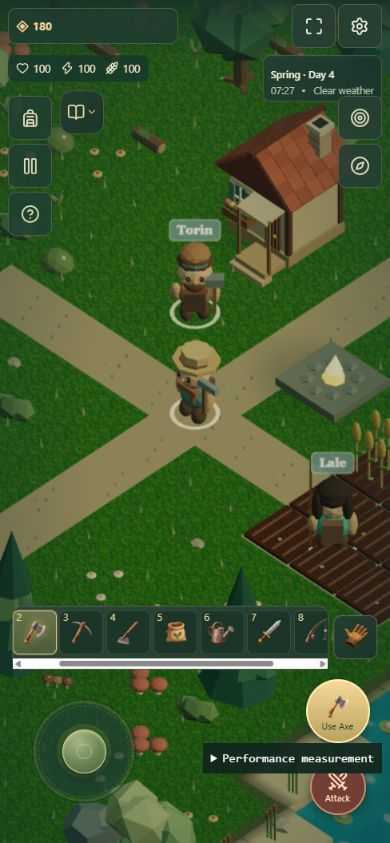
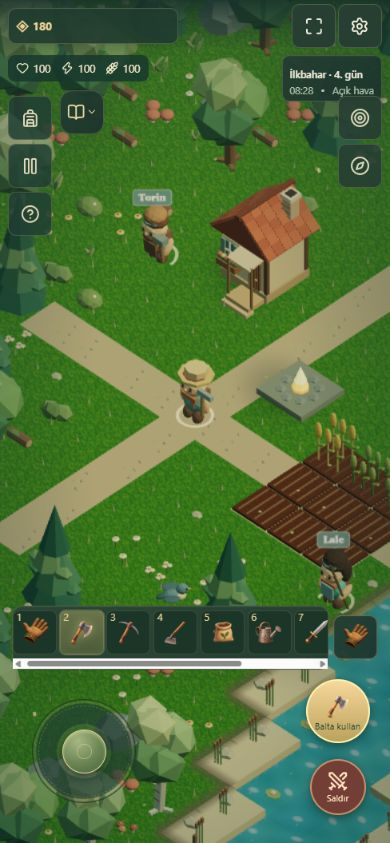
Document alpha.2 live status and verified local alpha.3 HUD and guide candidate

diff --git a/README.md b/README.md
@@ -8,18 +8,21 @@ design sources to copy.
 
 [Türkçe](README.tr.md) · [Changelog](CHANGELOG.md) · [2.0 master plan](docs/ROAMCROFT_2_0_MASTER_PLAN.md)
 
-**Source: 1.14.0-alpha.2 — Living Forest.**
-This builds on mobile recovery and the nine-slot hotbar. The forest slice adds three tree silhouettes, six
-woodland ground models, rabbits and birds to the real Three.js scene.
-See [forest verification](docs/verification-living-forest.md) for captures,
-render measurements and remaining physical-device acceptance. Deployment is
-verified separately in the [release record](docs/verification-release-1.14.0-alpha.2.md).
-This combines the mobile close fix, brand/guide, camp and storage UI, audited
-dependency patches and customizable item references. Full equipment, stack
-management and drag-and-drop remain planned. Physical Android acceptance is
-pending; deployment evidence is recorded in the [release verification](docs/verification-release-1.14.0-alpha.1.md).
-[Live game](https://roamcroft.com) is deployed separately;
-the source branch and its screenshots do not prove that the live build has updated.
+**Live: 1.14.0-alpha.2 — Living Forest**, main `914bde9`.
+GitHub CI and Cloudflare Workers Builds succeeded; both the official and previous
+origins were verified. [Release evidence](docs/verification-release-1.14.0-alpha.2.md).
+The real Three.js scene includes three tree silhouettes, six woodland ground
+models, rabbits and birds. [Forest verification](docs/verification-living-forest.md).
+The user passed the alpha.1 Android menu/input/hotbar/storage checks; physical
+forest performance remains pending. Full equipment, stacks and drag-and-drop
+remain planned.
+
+**Local development candidate: 1.14.0-alpha.3**, branch `codex/mobile-hud-recovery`.
+Compact notices, icon HUD controls, mobile hotbar/bag ergonomics and native
+field-guide scrolling are implemented locally. This candidate has **not** been
+published; physical acceptance and separate release approval are required.
+[HUD verification](docs/verification-mobile-hud-alpha.3.md) ·
+[Guide verification](docs/verification-guide-scroll-alpha.3.md).
 
 The release includes the official domain, brand icons and a bilingual
 [field guide](https://roamcroft.com/how-to-play).
@@ -28,8 +31,9 @@ created them. The [previous address](https://roamcroft.roamcroft.workers.dev)
 remains available. Export a device save before importing it on the new address;
 server ownership is not transferred by a local JSON file.
 
-The development candidate includes a new camp welcome screen and a focused
-bag/storage layout. These local captures show the candidate, not the live build:
+Camp welcome and the bag/storage distinction are included in the current live
+release. The following are historical local Camp Art captures; they do not show
+the newer alpha.3 HUD or prove physical-device acceptance:
 
 ![Camp Art candidate welcome screen, local desktop browser](docs/screenshots/camp-2-launch-desktop.jpg)
 
@@ -167,14 +171,13 @@ does not restore a lost browser cookie or player save.
 [1.13.0 verification](docs/verification-gameplay-1.13.0.md) · [UI baseline](docs/verification-ui-1.12.0.md) · [i18n baseline](docs/verification-portal-i18n.md)
 · [Portal roadmap](docs/PORTAL_ROADMAP.md) · [Contributor rules](AGENTS.md)
 
-The historical audit had **23 open package findings**. The 29 October install
-and audit reported **25** (3 critical, 10 high, 11 moderate, 1 low). The fresh
-Mobile Recovery audit still reports **25**, now **3 critical, 11 high, 10 moderate,
-1 low**, tracked in [the updated audit](docs/security-mobile-recovery-audit.md),
-the master plan and portal roadmap. Toolchain
-exposure and live Worker exposure require different analysis. This UI package
-preserves the existing Sentry dependency and does not upgrade dependencies or
-claim to resolve those findings. Browser error monitoring keeps only error type,
+The historical audit had **23 findings**, later **25**. The 30 October controlled security
+patch reduced the recorded audit to **20 package findings: 0 critical, 8 high,
+11 moderate, 1 low**. That patch shipped in alpha.1 and is retained in alpha.2.
+[Scoped risk analysis](docs/security-audit-2026-10-30.md). Remaining package
+findings are not a proof of live exploitability or of zero risk. The alpha.3
+HUD/guide work introduces no dependency upgrade and preserves Sentry/CSP.
+Browser error monitoring keeps only error type,
 release and code locations; free-form messages, player data, requests, breadcrumbs
 and attachments are removed before sending. Replay and tracing are disabled.
 

diff --git a/README.tr.md b/README.tr.md
@@ -6,9 +6,9 @@ bulunur. Eski cihaz kaydı ve sunucu kimliği eski adreste
 kalır; [önceki adres](https://roamcroft.roamcroft.workers.dev) açık tutulur.
 JSON dışa/içe aktarma cihaz çiftliğini taşır; sunucu sahipliğini taşımaz.
 
-Geliştirme adayında tek logolu karşılama ve görünür çanta/depo ayrımı var.
-Aşağıdaki görüntü yerel tarayıcıdan alındı; canlı sürüm veya fiziksel telefon
-kanıtı değildir.
+Tek logolu karşılama ve çanta/depo ayrımı canlı sürüme dahildir.
+Aşağıdaki tarihsel Camp Art görüntüsü yerel tarayıcıdan alındı; yeni alpha.3
+HUD'ını veya fiziksel telefon kabulünü göstermez.
 
 ![Camp Art adayı — yerel masaüstü](docs/screenshots/camp-2-launch-desktop.jpg)
 
@@ -17,25 +17,28 @@ ekin yetiştir, kaynak topla, üret, keşfet ve arkadaşlarınla çiftlik kur.
 
 [English](README.md) · [Değişiklikler](CHANGELOG.md) · [2.0 master planı](docs/ROAMCROFT_2_0_MASTER_PLAN.md)
 
-**Kaynak: 1.14.0-alpha.2 — Living Forest.**
-Mobil kurtarma ve gerçek hotbar üzerine ilerler. Yayın durumu
-[sürüm kaydında](docs/verification-release-1.14.0-alpha.2.md) ayrıca doğrulanır.
-Yeni orman dilimi gerçek Three.js sahnesine üç ağaç silueti, altı yer örtüsü,
-tavşan ve kuş ekler. Görseller, ölçümler ve eksikler
-[orman doğrulamasında](docs/verification-living-forest.md) tutulur.
-Mobil kapatma, marka/rehber, kamp/çanta/depo ve güvenlik yamaları birleştirildi.
-Tam ekipman/stack/sürükle-bırak henüz yoktur. Fiziksel Android kabulü eksiktir;
-yayın kanıtı [sürüm doğrulamasında](docs/verification-release-1.14.0-alpha.1.md) tutulur.
-[Canlı oyun](https://roamcroft.com) ayrı yayımlanır.
-Ana README'deki görseller üzerinde belirtilen sürümden yerel tarayıcıda alınır;
-eski 1.3 ekranları güncel sürüm olarak sunulmaz.
+**Canlı:1.14.0-alpha.2 — Living Forest**, main `914bde9`.
+GitHub CI ve Workers Builds başarılı; iki origin doğrulandı.
+[Yayın kaydı](docs/verification-release-1.14.0-alpha.2.md).
+Gerçek Three.js sahnesinde üç ağaç silueti, altı yer örtüsü, tavşan ve kuş var.
+[Orman kanıtı](docs/verification-living-forest.md). Kullanıcı alpha.1 Android
+menü/girdi/hotbar/depo kabulünü geçti; ormanın fiziksel performansı hâlâ bekliyor.
+Tam ekipman/stack/sürükle-bırak henüz yoktur.
+
+**Yerel aday:1.14.0-alpha.3**, `codex/mobile-hud-recovery`.
+Kompakt bildirim/HUD/hotbar/çanta ve rehber kaydırma düzeltmeleri yereldir;
+yayımlanmadı. Fiziksel kabul ve ayrıca yayın onayı gerekir.
+[HUD kanıtı](docs/verification-mobile-hud-alpha.3.md) ·
+[Rehber kanıtı](docs/verification-guide-scroll-alpha.3.md).
 
 1.13.1: safe-area uyumlu joystick, kalıcı sağ/sol/boyut/hassasiyet tercihi,
 ayrı kullanım/saldırı alanları, iptal edilen girdi temizliği, oyun içi bölüm
 menüsü, oranı korunan atlas ikonları, açılır çanta ayrıntıları ve onaylı depo
 aktarımı. [Doğrulama ve cihaz kontrol listesi](docs/verification-mobile-1.13.1.md).
-Güncel audit hâlâ 25: **3 kritik/11 yüksek/10 orta/1 düşük**; bağımlılıklar
-değiştirilmedi. [Güvenlik incelemesi](docs/security-mobile-recovery-audit.md).
+30 Ekim kontrollü yama sonrası kaydedilen audit **20:0 kritik/8 yüksek/
+11 orta/1 düşük**; yama alpha.1'de yayımlandı, alpha.2'de korunur.
+[Risk incelemesi](docs/security-audit-2026-10-30.md). Bu HUD/rehber işinde
+bağımlılık yükseltilmedi; açık paket sayısı canlı istismar sayısı değildir.
 
 ## Güncel sistemler
 
@@ -111,8 +114,8 @@ iki yedekli atomik rotasyon, localStorage geri dönüşü ve JSON içe/dışa ak
 vardır. Depoyu geri yüklemek tarayıcı kaydını/çerezini geri getirmez.
 
 Tarihsel audit 23 bulguydu. 1.13.0'ın 29 Ekim kurulum/audit sonucu 25'ti (3 kritik,
-10 yüksek, 11 orta, 1 düşük); güncel dağılım yukarıdadır, giderilmiş sayılmaz. Mevcut Sentry bağımlılığı
-korunur; bağımlılık yükseltmesi yapılmaz. Hata gönderiminde yalnız tür/sürüm/kod
+10 yüksek,11 orta,1 düşük). Kontrollü yama sonrası20 bulgu yukarıda ayrılmıştır;
+kalanlar giderilmiş sayılmaz. Mevcut Sentry bağımlılığı korunur. Hata gönderiminde yalnız tür/sürüm/kod
 konumu tutulur; oyuncu/kayıt/istek verisi ve serbest mesajlar filtrelenir.
 Portal SDK/reklam/oynanış analitiği, prestij,
 hesap/kurtarma ve diğer 2.0 hedefleri [master planda](docs/ROAMCROFT_2_0_MASTER_PLAN.md)

diff --git a/docs/ROAMCROFT_2_0_MASTER_PLAN.md b/docs/ROAMCROFT_2_0_MASTER_PLAN.md
@@ -9,12 +9,12 @@ ayrıca `1e302c3` Sentry entegrasyonu eklenmiştir; UI tesliminde korunur.
 
 ## Güncel yerel paket — Mobile HUD / alpha.3
 
-**TAMAMLANDI (yerel):** tek/birleşen kısa bildirim sırası, küçük Keşfet44px,
+**TAMAMLANDI (yerel, f3da7f6):** tek/birleşen kısa bildirim sırası, küçük Keşfet44px,
 çanta içinden gerçek hotbar bağlama,44px ikon HUD aç/kapat, kompakt mobil
 çanta/depo.236 test/typecheck/build/dört WS runtime ve üç boyutta33 menü
 döngüsü başarılı. [Kanıt](verification-mobile-hud-alpha.3.md).
 **DOĞRULAMA EKSİK:** yeni HUD fiziksel Android/iOS/PWA/safe-area ve gerçek WAN.
-**TAMAMLANDI (yerel):** How-to-play kök scroll kilidi route koşullu düzeltildi;
+**TAMAMLANDI (yerel,07760aa):** How-to-play kök scroll kilidi route koşullu düzeltildi;
 masaüstü ve3 mobil boyutta son içerik/oyuna dönüş doğrulandı.
 [Rehber doğrulaması](verification-guide-scroll-alpha.3.md).
 **PLANLANDI:** sonraki öncelik alpha.2 forest ve alpha.3 HUD/rehber fiziksel

diff --git a/docs/security-audit-2026-10-30.md b/docs/security-audit-2026-10-30.md
@@ -1,5 +1,10 @@
 # 30 Ekim 2026 — yayın öncesi bağımlılık güvenliği
 
+**Sonraki yayın checkpoint'i:** burada incelenen dar yama alpha.1/3331e6a ile
+üretime çıktı ve alpha.2/914bde9 içinde korunur. Aşağıdaki üretime yayımlanmadı
+ifadesi ilk yerel denetim anını anlatır. Son kanıt verification-release-1.14.0-alpha.2.md.
+Alpha.3 HUD/rehber işi yeni audit veya bağımlılık güncellemesi yapmadı.
+
 **Yerel güvenlik yaması; üretime yayımlanmadı.** İlk taze audit **25 paket:
 3 kritik /11 yüksek /10 orta /1 düşük**. Kontrollü yama sonrası **20 paket:
 0 kritik /8 yüksek /11 orta /1 düşük**. Sayım paket/metavulnerability

diff --git a/AGENTS.md b/AGENTS.md
@@ -1,5 +1,10 @@
 # Güncel checkpoint — 30 Ekim 2026
 
+Yerel alpha.3: HUD f3da7f6, rehber scroll07760aa; dal codex/mobile-hud-recovery.
+236 test/typecheck/build ve4WS runtime geçti. Doğrulama docs/verification-mobile-hud-alpha.3.md
+ve docs/verification-guide-scroll-alpha.3.md. Ana referans master plan güncellendi.
+Fiziksel yeni HUD/rehber kabulü ve yeni main/production onayı bekler; push yok.
+
 Canlı alpha.2/main914bde9360078576eee0a51bf70295e4de3f45b7 yayımlandı;
 GitHub verify+Workers Builds success. Son kayıt docs/verification-release-1.14.0-alpha.2.md.
 Kullanıcı alpha.1 Android X/Close/hotbar/depo/girdi/kayıt erişimini geçtiğini

diff --git a/docs/verification-guide-scroll-alpha.3.md b/docs/verification-guide-scroll-alpha.3.md
@@ -44,3 +44,5 @@ HUD commit'inde geçti; bu sonraki fark yalnız route CSS'i ve belgelerdir.
 Bağımlılık/şema/ekonomi/üretim verisi değişmedi. Fiziksel Android/iOS parmakla
 kaydırma ve PWA dinamik viewport kabulü henüz yapılmadı; masaüstü viewport
 kanıtı fiziksel cihaz testi sayılmaz.
+
+Kod checkpoint'i `07760aa67e437bf2af8c0902e18f48e0fcdc1e39`.
